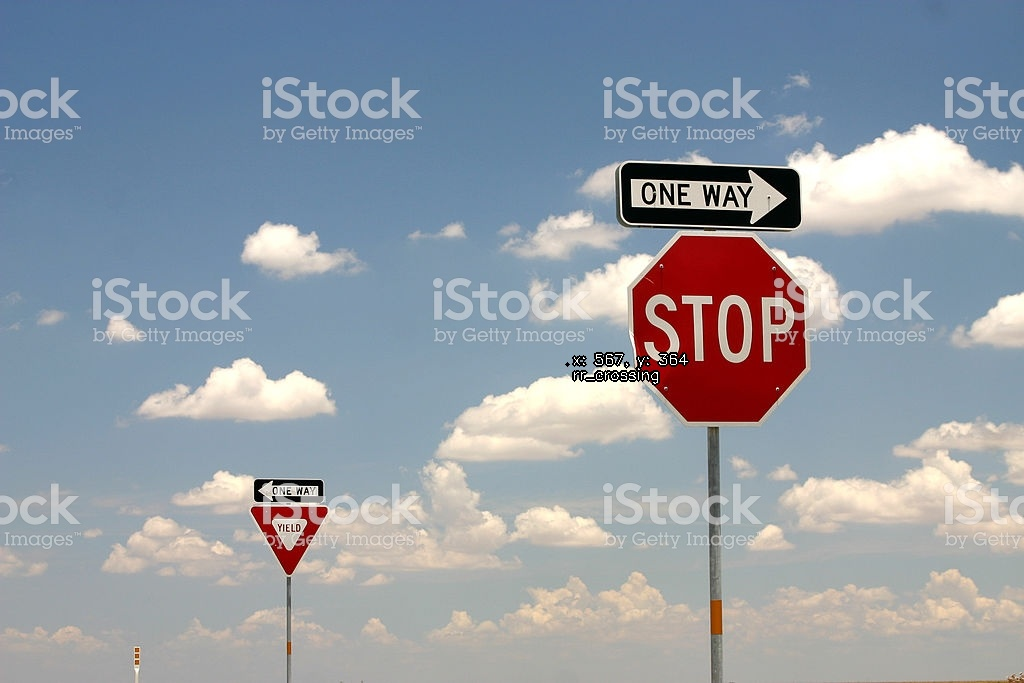
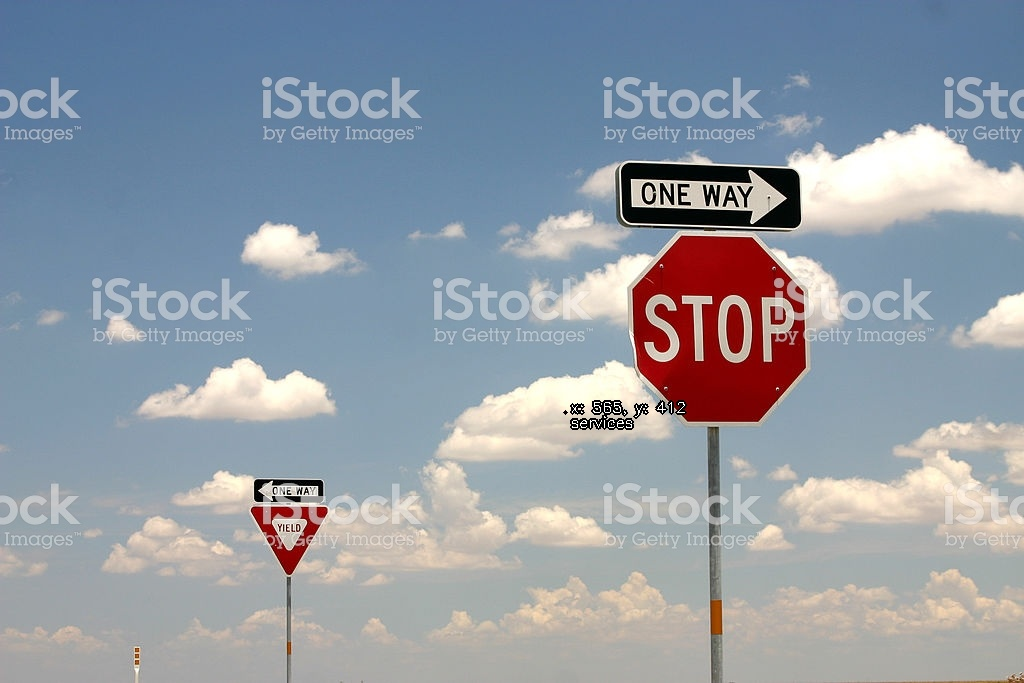
services_test

Changed region(s): [[0.5312, 0.4919, 0.6875, 0.6457]]

diff --git a/homework/hw2/hw2.py b/homework/hw2/hw2.py
@@ -312,7 +312,7 @@ def identify_rr_crossing(img: np.ndarray) -> tuple:
     lower_yellow = np.array([20, 100, 100])
     upper_yellow = np.array([30, 255, 255])
 
-    # Mask the yellow regions
+    # Define the color range for detecting yellow
     mask = cv2.inRange(hsv, lower_yellow, upper_yellow)
 
     # Apply the mask to the image
@@ -345,14 +345,21 @@ def identify_services(img: np.ndarray) -> tuple:
     # Copy the image
     img_cp = img.copy()
 
+    # Convert the image to HSV
     hsv = cv2.cvtColor(img_cp, cv2.COLOR_BGR2HSV)
 
-    # Define the color range for detecting white
-    lower_white = np.array([0, 0, 200])
-    upper_white = np.array([180, 20, 255])
+    # Define the color range for detecting blue
+    lower_blue = np.array([100, 150, 70])
+    upper_blue = np.array([130, 255, 255])
 
-    # Define the color range for detecting white
-    mask = cv2.inRange(hsv, lower_white, upper_white)
+    # Define the color range for detecting white (for the border)
+    lower_white = np.array([0, 0, 200])
+    upper_white = np.array([180, 30, 255])
+
+    # Define the color range for detecting blue and white
+    mask_blue = cv2.inRange(hsv, lower_blue, upper_blue)
+    mask_white = cv2.inRange(hsv, lower_white, upper_white)
+    mask = cv2.bitwise_or(mask_blue, mask_white)
 
     # Apply the mask to the image
     masked_img = cv2.bitwise_and(img_cp, img_cp, mask=mask)
@@ -371,7 +378,7 @@ def identify_services(img: np.ndarray) -> tuple:
         avg_x = np.mean(x).astype(int)
         avg_y = np.mean(y).astype(int)
 
-        return avg_x, avg_y, 'rr_crossing'
+        return avg_x, avg_y, 'services'
 
     return 0, 0, 'None'
 
